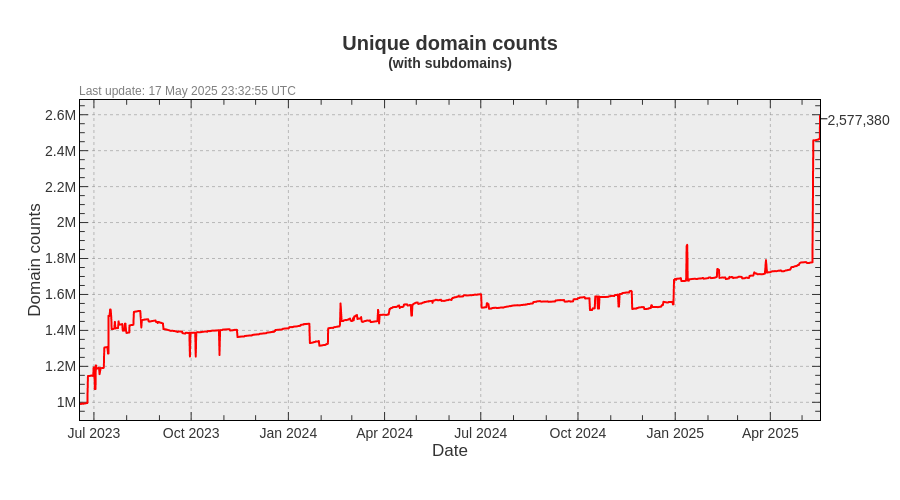
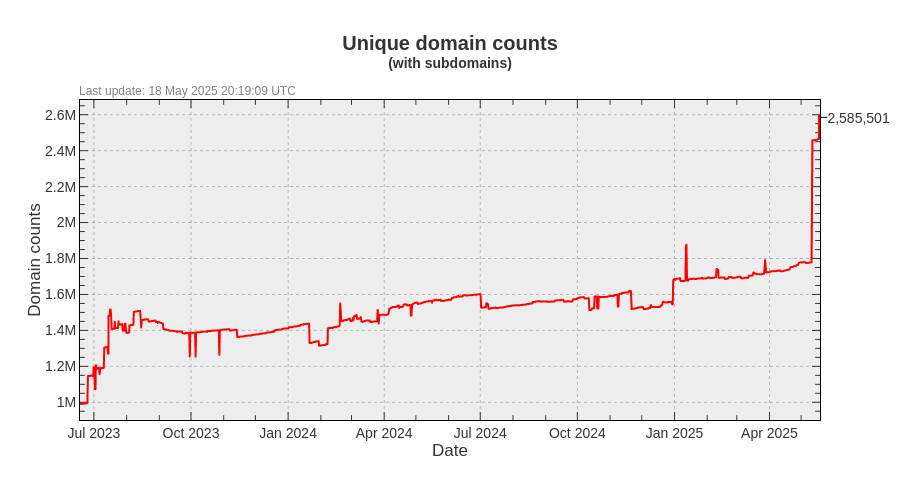
Update pages

diff --git a/README.md b/README.md
@@ -3,23 +3,23 @@ A blocklist file for blocking ads, trackers and malware domains.
 
[1 lines of base64/hex data omitted]
 
-- Unique domains: 2,577,380
-- Without subdomains: 1,859,120
-- Last update: 17 May 2025 23:32:55 UTC
-- Version: 2025.05.17.03
+- Unique domains: 2,585,501
+- Without subdomains: 1,863,368
+- Last update: 18 May 2025 20:19:09 UTC
+- Version: 2025.05.18.01
 
 
 ### Downloads:
 
 | Format             | Domain count      | Download Link |
 |:------------------ | -----------------:|:-------------:|
-| *Adblock Plus*     | 1,859,120 | [Download](https://dl.cenk.app/bad-hosts/bad-hosts-abp) |
-| *Wildcard domains* | 1,859,120 | [Download](https://dl.cenk.app/bad-hosts/bad-hosts-wildcard) |
-| *dnsmasq*          | 1,859,120 | [Download](https://dl.cenk.app/bad-hosts/bad-hosts-dnsmasq) |
-| *Unbound*          | 1,859,120 | [Download](https://dl.cenk.app/bad-hosts/bad-hosts-unbound) |
-| *hosts*            | 2,577,380 | [Download](https://dl.cenk.app/bad-hosts/hosts) |
-| *hosts (ipv6)*     | 2,577,380 | [Download](https://dl.cenk.app/bad-hosts/hosts-ipv6) |
-| *Plain domains*    | 2,577,380 | [Download](https://dl.cenk.app/bad-hosts/bad-hosts-domains) |
+| *Adblock Plus*     | 1,863,368 | [Download](https://dl.cenk.app/bad-hosts/bad-hosts-abp) |
+| *Wildcard domains* | 1,863,368 | [Download](https://dl.cenk.app/bad-hosts/bad-hosts-wildcard) |
+| *dnsmasq*          | 1,863,368 | [Download](https://dl.cenk.app/bad-hosts/bad-hosts-dnsmasq) |
+| *Unbound*          | 1,863,368 | [Download](https://dl.cenk.app/bad-hosts/bad-hosts-unbound) |
+| *hosts*            | 2,585,501 | [Download](https://dl.cenk.app/bad-hosts/hosts) |
+| *hosts (ipv6)*     | 2,585,501 | [Download](https://dl.cenk.app/bad-hosts/hosts-ipv6) |
+| *Plain domains*    | 2,585,501 | [Download](https://dl.cenk.app/bad-hosts/bad-hosts-domains) |
 
 ### Domain count history
 #### With subdomains
